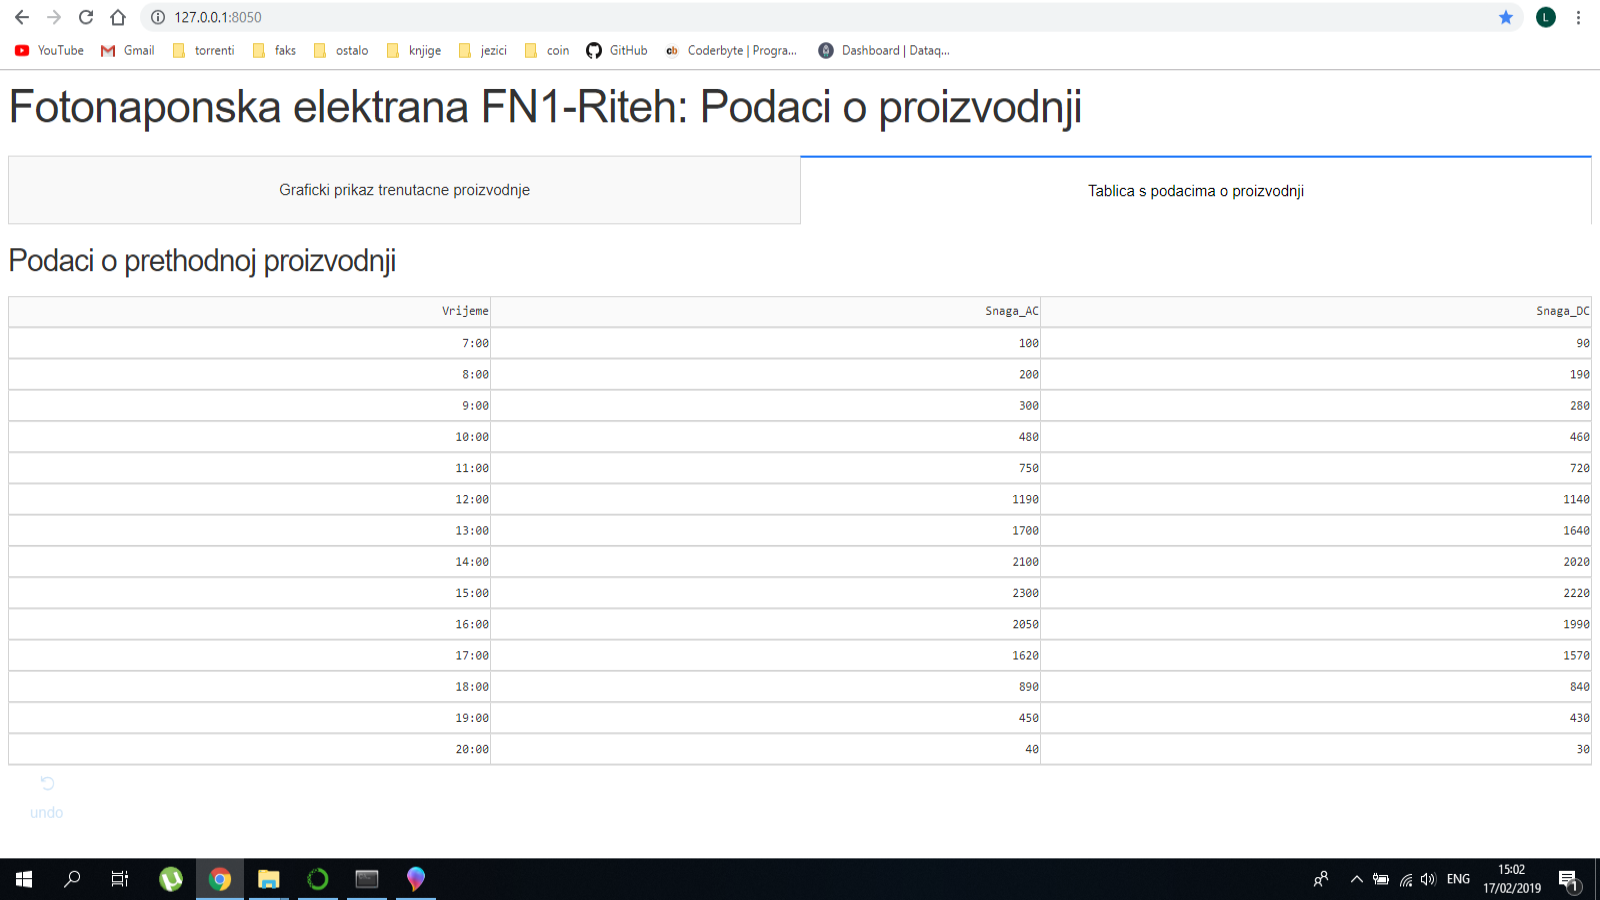
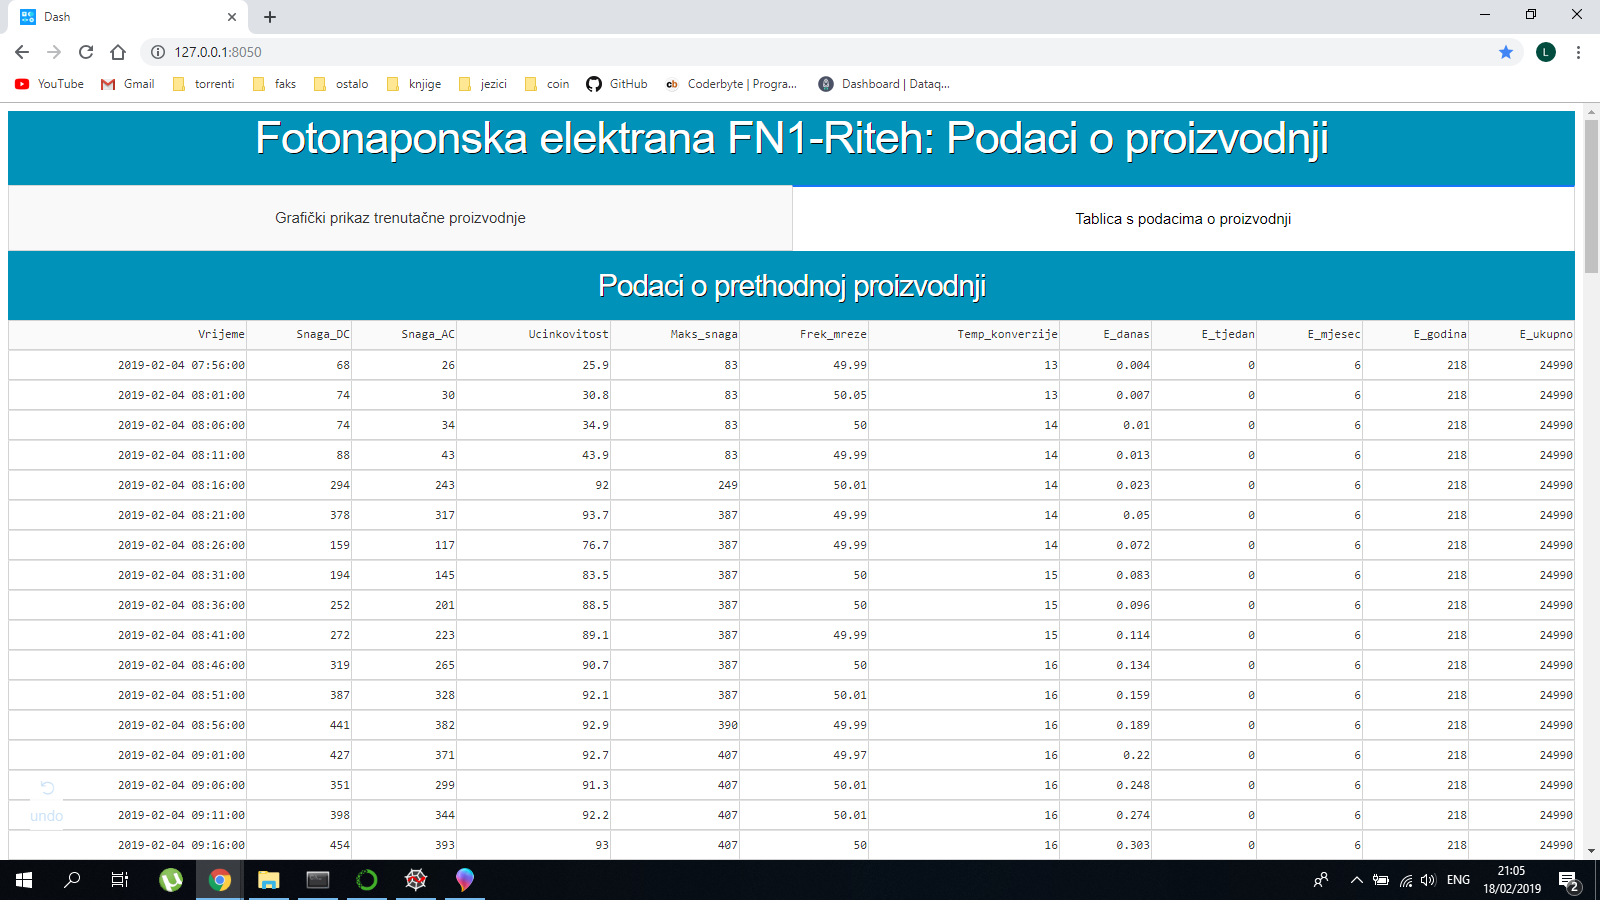
Updated styling.

Changed region(s): [[0.0, 0.0, 1.0, 1.0], [0.0, 0.9022, 0.0312, 0.9333]]

diff --git a/tabs_feature_wtable_v2.py b/tabs_feature_wtable_v2.py
@@ -14,16 +14,19 @@ app = dash.Dash(__name__, external_stylesheets=external_stylesheets)
 app.config['suppress_callback_exceptions']=True
 
 app.layout = html.Div([
-    html.H1('Fotonaponska elektrana FN1-Riteh: Podaci o proizvodnji'),
+    html.H1('Fotonaponska elektrana FN1-Riteh: Podaci o proizvodnji', 
+            style={'color': 'rgb(255,255,255)',
+                   'text-align': 'center',
+                   'text-shadow':'1px 1px #000000'}),
     dcc.Tabs(id="my-tabs", value='tab-1-example', children=[
-        dcc.Tab(label='Graficki prikaz trenutacne proizvodnje', value='tab-1'),
+        dcc.Tab(label='Grafički prikaz trenutačne proizvodnje', value='tab-1'),
         dcc.Tab(label='Tablica s podacima o proizvodnji', value='tab-2'),
     ]),
     html.Div(id='tabs-content')
-], style={'background':'rgba(0,146,184,0.4)'})
+], style={'background':'rgb(0,146,184)'})
 
 conn =  mysql.connect(host='localhost', user='root', password='lozinka', db='riteh1')
-query = "SELECT * FROM elektrana WHERE Vrijeme >= '2019-02-04 07:00:00' AND Vrijeme <= '2019-02-04 17:00:00'"
+query = "SELECT * FROM elektrana WHERE Vrijeme >= '2019-02-04 06:00:00' AND Vrijeme <= '2019-02-04 18:00:00'"
 df = pd.read_sql(query, conn)
 
 @app.callback(Output('tabs-content', 'children'),
@@ -31,7 +34,10 @@ df = pd.read_sql(query, conn)
 def render_content(tab):
     if tab == 'tab-1':
         return html.Div([
-            html.H3('Testni prikaz simulirane proizvodnje'),
+            html.H3('Testni prikaz prethodne proizvodnje',
+                    style={'color':'rgb(255,255,255)',
+                           'text-shadow':'1px 1px #000000',
+                           'text-align': 'center'}),
             dcc.Graph(
                 figure=go.Figure(
                     data=[
@@ -47,35 +53,38 @@ def render_content(tab):
                                     )
                           ],
                     layout=go.Layout(
-                        title='test plot with pandas',
+                        title='Snaga (DC, AC)',
                         showlegend=True,
                         yaxis=dict(title='Snaga u W'),
                         xaxis=dict(title='Vrijeme'),
                                     )
                                 ),
-                style={'height': 500},
+                style={'height': 550},
                 id='my-graph'
                      ),
             html.Div([
-            html.H3('Live podaci (5-minutni korak):'),
-            html.P("Vrijeme: {}".format(df.iloc[-1,0])),
-            html.P("Snaga AC: {}W".format(df.iloc[-1,2])),
-            html.P("Snaga DC: {}W".format(df.iloc[-1,1])),
-            html.P("Učinkovitost: {}%".format(df.iloc[-1,3])),
-            html.P("Max. snaga danas: {}W".format(df.iloc[-1,4])),
-            html.P("Frekvencija mreže: {}Hz".format(df.iloc[-1,5])),
-            html.P("Temp. konverzije: {}°C".format(df.iloc[-1,6])),
-            html.P("Energije danas: {}kW".format(df.iloc[-1,7])),
-            html.P("Energije u tjednu: {}kW".format(df.iloc[-1,8])),
-            html.P("Energije u mjesecu: {}kW".format(df.iloc[-1,9])),
-            html.P("Energije u godini: {}kW".format(df.iloc[-1,10])),
-            html.P("Energije ukupno: {}kW".format(df.iloc[-1,11])),
-                     ], style={'marginBottom': 50, 'marginTop': 25, 'text-align': 'center'}
+            html.H3('Live podaci (5-minutni korak):', style={'color':'rgb(255,255,255)'}),
+            html.P("Vrijeme: {}".format(df.iloc[-1,0]), style={'color':'rgb(255,255,255)'}),
+            html.P("Snaga AC: {}W".format(df.iloc[-1,2]), style={'color':'rgb(255,255,255)'}),
+            html.P("Snaga DC: {}W".format(df.iloc[-1,1]), style={'color':'rgb(255,255,255)'}),
+            html.P("Učinkovitost: {}%".format(df.iloc[-1,3]), style={'color':'rgb(255,255,255)'}),
+            html.P("Max. snaga danas: {}W".format(df.iloc[-1,4]), style={'color':'rgb(255,255,255)'}),
+            html.P("Frekvencija mreže: {}Hz".format(df.iloc[-1,5]), style={'color':'rgb(255,255,255)'}),
+            html.P("Temp. konverzije: {}°C".format(df.iloc[-1,6]), style={'color':'rgb(255,255,255)'}),
+            html.P("Energije danas: {}kW".format(df.iloc[-1,7]), style={'color':'rgb(255,255,255)'}),
+            html.P("Energije u tjednu: {}kW".format(df.iloc[-1,8]), style={'color':'rgb(255,255,255)'}),
+            html.P("Energije u mjesecu: {}kW".format(df.iloc[-1,9]), style={'color':'rgb(255,255,255)'}),
+            html.P("Energije u godini: {}kW".format(df.iloc[-1,10]), style={'color':'rgb(255,255,255)'}),
+            html.P("Energije ukupno: {}kW".format(df.iloc[-1,11]), style={'color':'rgb(255,255,255)'}),
+                     ], style={'marginBottom': 10, 'marginTop': 10, 'text-align': 'center'}
                     )
                     ])
     elif tab == 'tab-2':
         return html.Div([
-            html.H3('Podaci o prethodnoj proizvodnji'),
+            html.H3('Podaci o prethodnoj proizvodnji',
+                    style={'color':'rgb(255,255,255)',
+                           'text-shadow':'1px 1px #000000',
+                           'text-align': 'center'}),
             dash_table.DataTable(
     id='table',
     columns=[{"name": i, "id": i} for i in df.columns],

diff --git a/README.md b/README.md
@@ -11,6 +11,7 @@ Currently:
 - added a graph for viewing the AC and DC power output
 - added a table with data pulled from the db
 - added graphical and textual representation of available data
+- added some styling (background color, text colors, centering)
 
 The next steps in the project:
 - graphical and textual representation of live data
